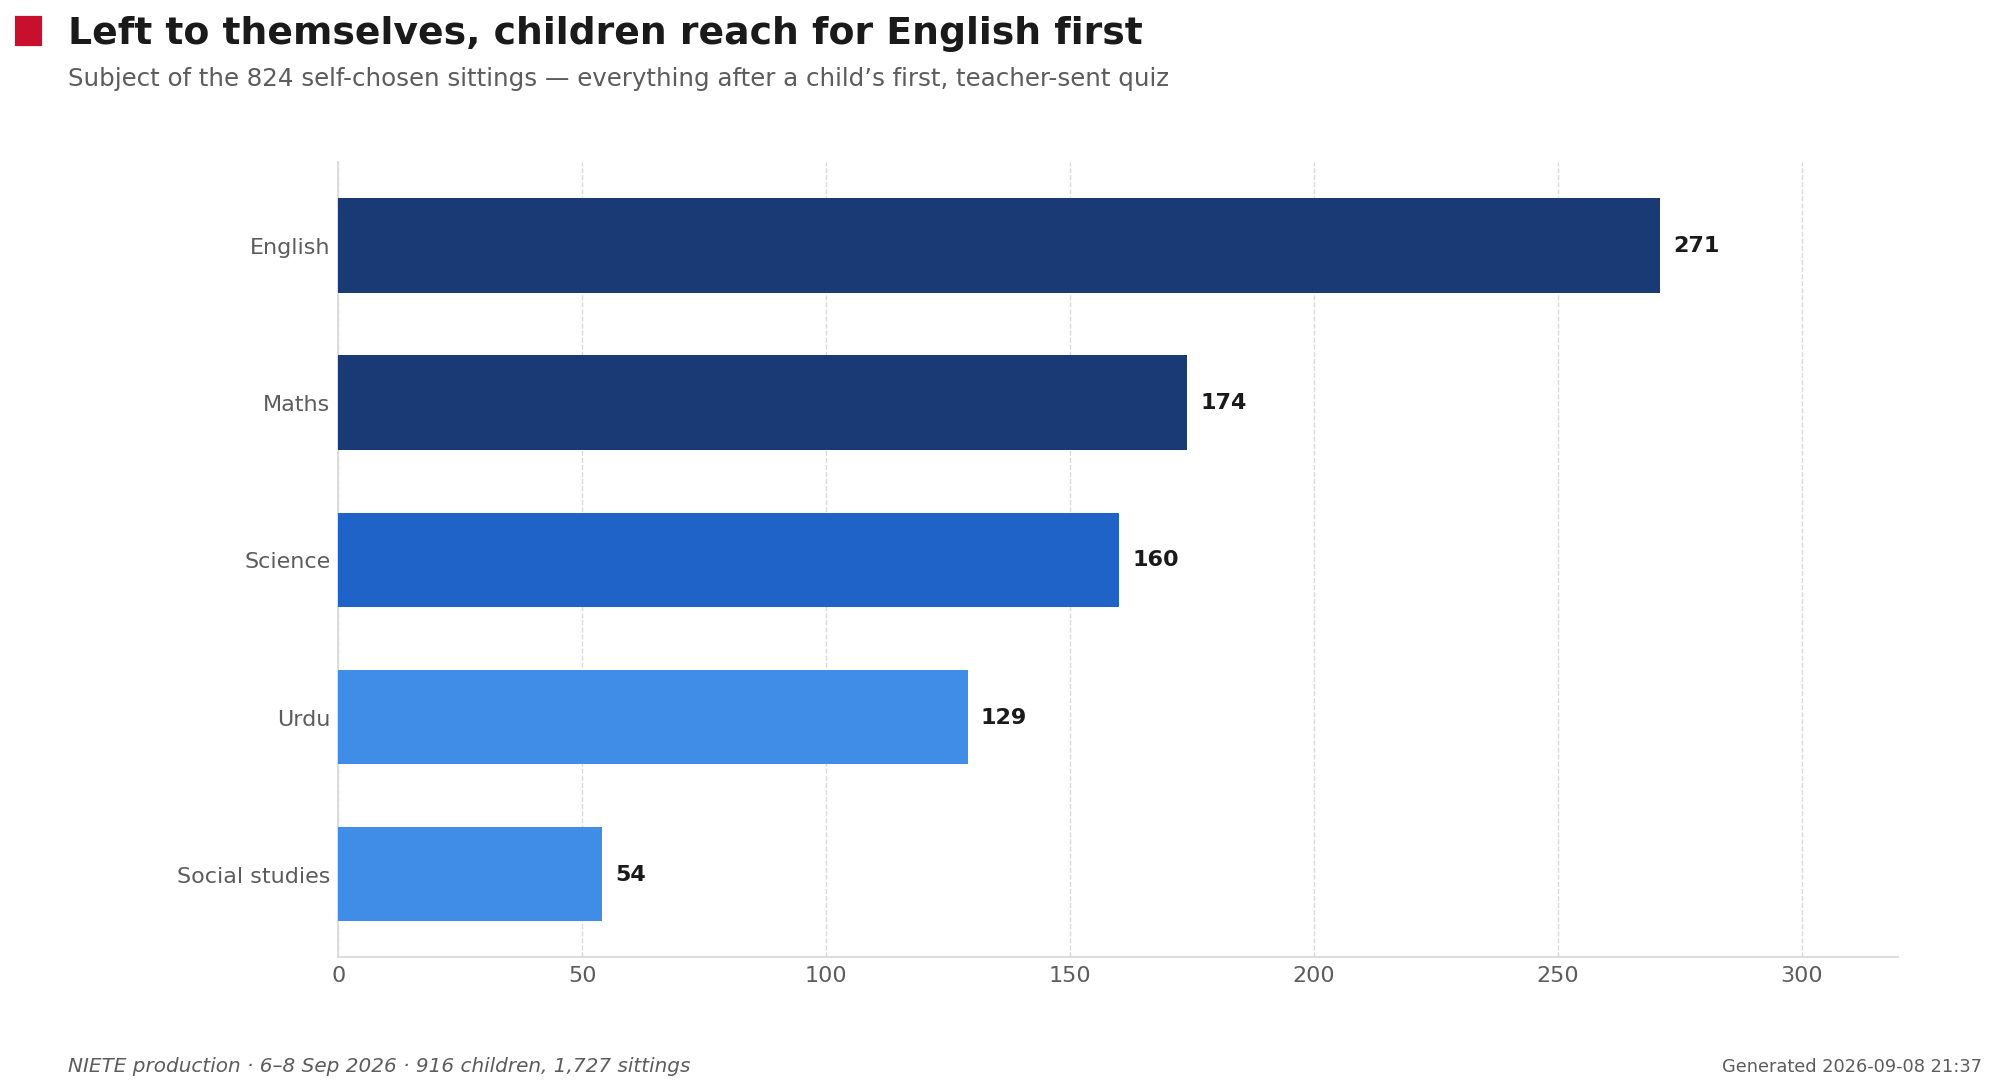
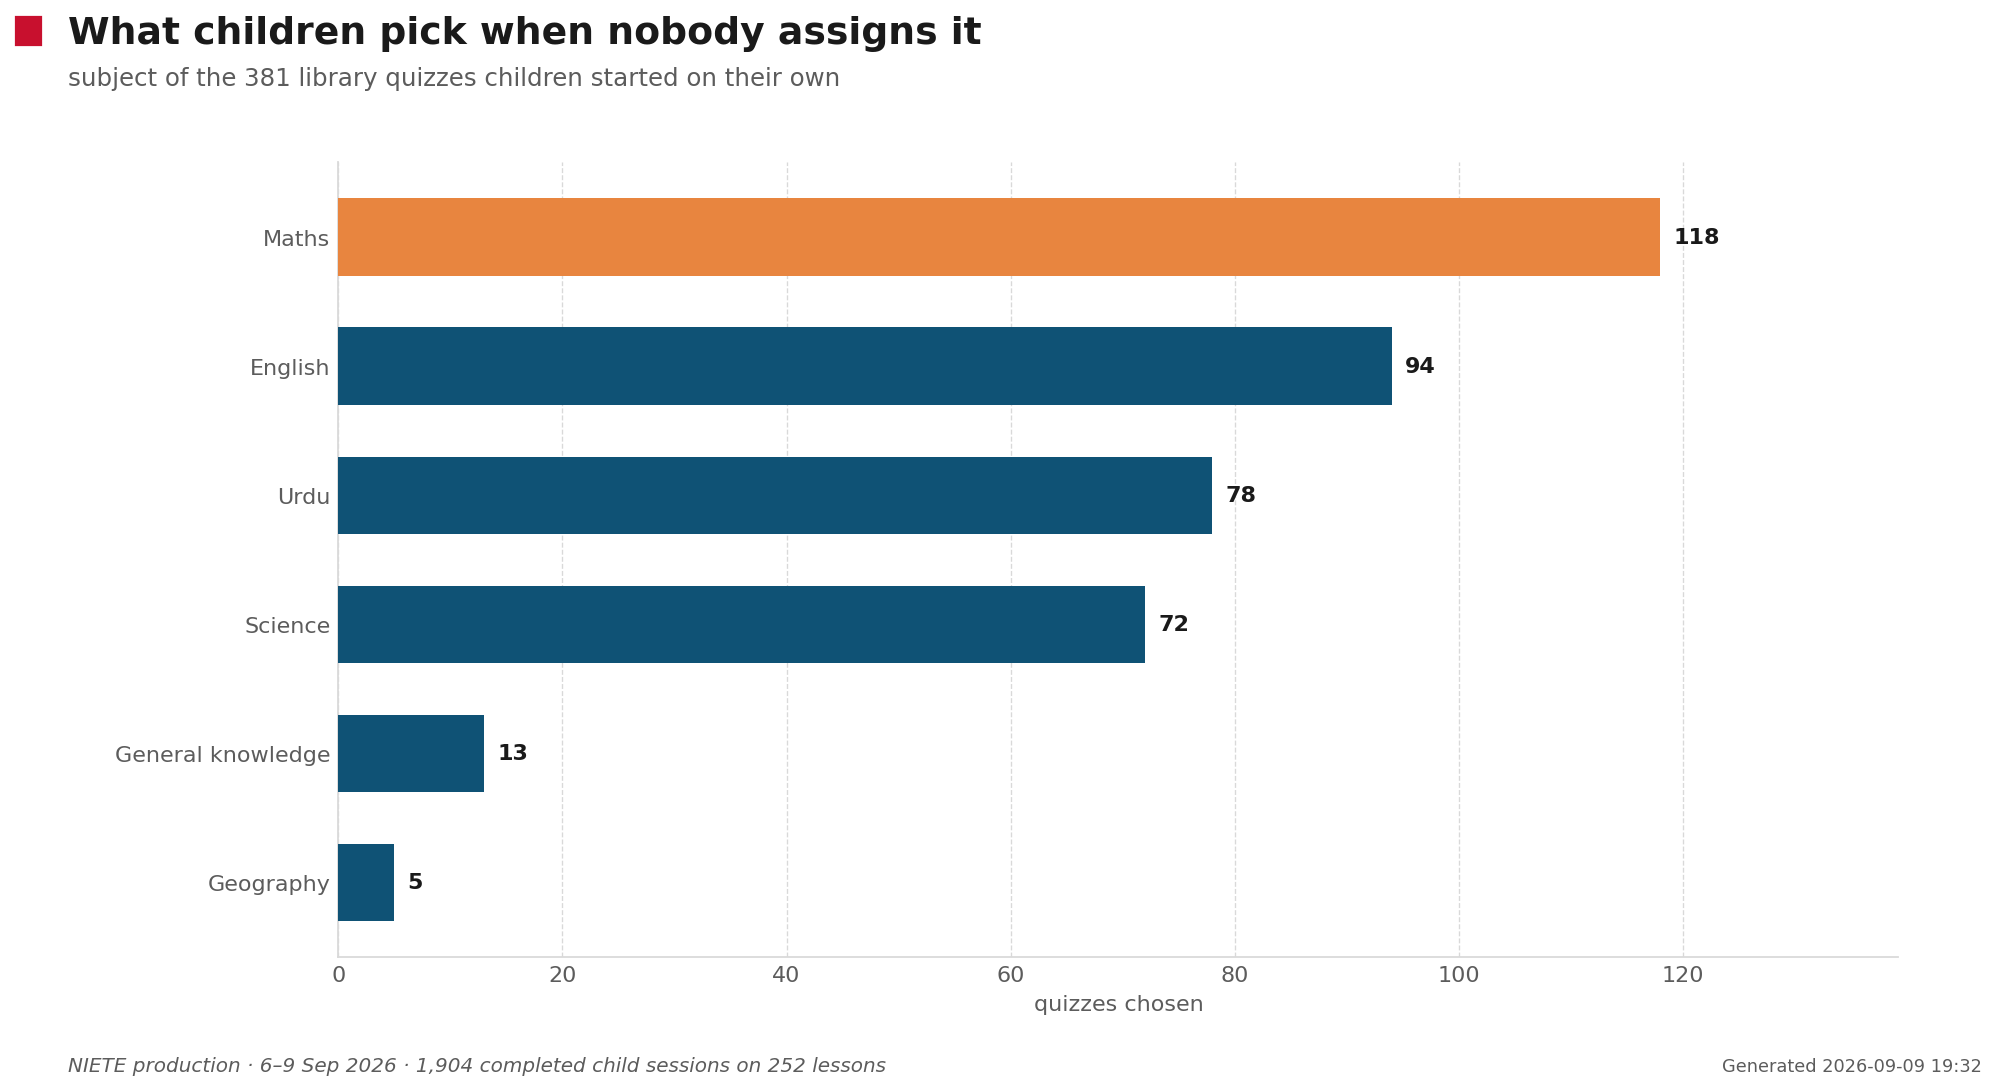
report: refresh the quiz story with four days of data (6-9 Sep)
Mastery settles at 75.9% across 8,746 child-objective pairs from 1,904
finished quizzes; depth, self-chosen subjects and the friend loop all
re-pulled. The three charts on this page are now generated from the pull
rather than hand-copied, which is how the depth chart came to be a build
behind the page around it.

diff --git a/reports/slo-mastery-2026-09-07/index.html b/reports/slo-mastery-2026-09-07/index.html
@@ -115,40 +115,41 @@ footer{border-top:1px solid var(--rule);padding-top:20px;color:var(--ink-3);font
 
 <div class="wrap">
 <header class="top">
-  <p class="eyebrow">NIETE · Islamabad · the first two days</p>
+  <p class="eyebrow">NIETE · Islamabad · the first four days</p>
   <h1>Did the children get it?</h1>
   <p class="stand">Every quiz here was written from a real lesson recording. The teacher taught, the system
     read the transcript back, listed the objectives the lesson actually covered, and asked the children
     about those — not about a syllabus. Then the children did something nobody had asked them to.</p>
-  <p class="pop"><span><b>311</b> quizzes sent to teachers</span><span><b>131</b> reached a child</span>
-    <span><b>583</b> finished all eight questions</span><span><b>916</b> children in all</span><span>6–8 September 2026</span></p>
+  <p class="pop"><span><b>536</b> quizzes sent to teachers</span><span><b>278</b> reached a child</span>
+    <span><b>1,904</b> finished all eight questions</span><span><b>1,461</b> children in all</span><span>6–9 September 2026</span></p>
 </header>
 
 <section>
-  <div class="answer"><p class="big">77.9%</p>
+  <div class="answer"><p class="big">75.9%</p>
     <p class="def">of the objectives they were asked about, children mastered — every question on that objective right.
-      2,719 child-and-objective pairs, from 583 finished quizzes.</p></div>
-  <p class="prose">That number was 78.7% after the first hundred children and 78.6% after four hundred. It has not moved.
-    Question by question the figure is higher — 85.3% of answers were right, the median child scored
-    88% — but the stricter reading is the useful one: a child who misses one of the two questions on
-    <em>fractions as parts of a whole</em> has not mastered it, however good the score looks.</p>
+      8,746 child-and-objective pairs, from 1,904 finished quizzes.</p></div>
+  <p class="prose">It was 78.7% after the first hundred children and 77.9% after nine hundred. Four days and
+    1,904 finished quizzes in, it has settled two points lower — the direction you expect as a sample stops being
+    the keenest families and starts being everyone. Question by question the figure is higher — 84.0% of
+    answers were right, the median child scored 88.0% — but the stricter reading is the useful one: a child who
+    misses one of the two questions on <em>fractions as parts of a whole</em> has not mastered it, however good the score looks.</p>
 </section>
 
 <section>
   <p class="turn">The quiz the teacher sent turned out to be the beginning, not the end.</p>
   <p class="prose">When a child finishes, the assistant asks whether they want another. Nobody expected much of that offer.
-    <b>Of the 369 children who saw it and answered, 129 said yes</b> — 45%.
+    <b>Of the 552 children who saw it and answered, 258 said yes</b> — 47%.
     And the offer is the smaller half of it: children also came back on their own, through links their teacher had sent days
     before, or that a friend had forwarded.</p>
   <div class="stats">
-    <div class="stat"><b>278</b><span>quizzes children chose for themselves, beyond the one their teacher sent</span></div>
-    <div class="stat"><b>192</b><span>of those finished to the last question — 69%, the same rate as the quizzes teachers sent</span></div>
-    <div class="stat"><b>62</b><span>children did three or more different quizzes in two days</span></div>
-    <div class="stat"><b>5</b><span>the deepest run — five different quizzes across four subjects</span></div>
+    <div class="stat"><b>381</b><span>quizzes children chose for themselves, beyond the one their teacher sent</span></div>
+    <div class="stat"><b>220</b><span>of those finished to the last question — 58%, against 69% on the quizzes teachers sent; a library quiz is roughly twice as long</span></div>
+    <div class="stat"><b>151</b><span>children did three or more different quizzes in four days</span></div>
+    <div class="stat"><b>9</b><span>the deepest run — nine different quizzes across five subjects</span></div>
   </div>
   <figure class="chart"><img src="charts/10_depth_distinct.png" alt="Distinct quizzes per child" loading="lazy"></figure>
-  <p class="prose">This counts <em>different</em> quizzes. Children also restarted quizzes they had already begun — 560 times
-    across two days — which is a separate story, part enthusiasm and part a rate-limit stall that has since been fixed. It is left
+  <p class="prose">This counts <em>different</em> quizzes. Children also restarted quizzes they had already begun — 1,094 times
+    across four days — which is a separate story, part enthusiasm and part a rate-limit stall that has since been fixed. It is left
     out of every number above so that "went deeper" never means "tapped the same link twice".</p>
 </section>
 
@@ -250,24 +251,24 @@ footer{border-top:1px solid var(--rule);padding-top:20px;color:var(--ink-3);font
 
 <section>
   <h2>Left to themselves, what do they pick?</h2>
-  <p class="prose">Of the 278 quizzes children chose on their own, English led, then maths and science.
-    They do not stay in their lesson, and they do not stay in their year: 78 sittings were on grade 6–8 material, 45 on
-    grades 1–2. They reach up and down.</p>
+  <p class="prose">Of the 381 quizzes children chose on their own, maths now leads, then English and Urdu —
+    English led on day two and maths has overtaken it since. They do not stay in their lesson, and they do not stay in their year:
+    24 sittings were on grade 6–8 material, 37 on grades 1–2. They reach up and down.</p>
   <figure class="chart"><img src="charts/11_self_chosen_subjects.png" alt="Subjects children chose on their own" loading="lazy"></figure>
 </section>
 
 <section>
   <h2>Send it to a friend</h2>
   <p class="prose">After the scorecard, one question: <em>Want to send this quiz to a friend? I'll tell you how they did once they
-    finish.</em> Over two days, 1,064 children saw it. <b>278 forwarded it</b>, one in four. 154 friends
-    actually opened the link, and 101 of them — two in three — finished the whole quiz. 98 times, the result went
-    back to the child who sent it.</p>
+    finish.</em> Over four days, 2,036 children saw it. <b>491 forwarded it</b>, 24%.
+    200 friends actually opened the link, and 132 of them — two in three — finished the whole quiz.
+    174 times, the result went back to the child who sent it.</p>
   <figure class="chart"><img src="charts/12_friend_loop.png" alt="The invite loop" loading="lazy"></figure>
   <p class="prose">This is the message that goes back. It is the production string with real numbers from one pair of children;
     the names are changed.</p>
   <div class="duo">
-    <div><div class="bubble-solo"><div class="msg in"><p>🎯 <b>Hamza finished your quiz!</b><br><br>Hamza: <b>7/8</b><br>You: <b>5/8</b><br><br>Hamza edged you this time — worth another go.</p><span class="ts">8:14 pm</span></div></div><p class="cap"><span class="ur">متضاد الفاظ</span> — the friend edged the inviter.</p></div>
-    <div><div class="bubble-solo"><div class="msg in"><p>🎯 <b>Areeba finished your quiz!</b><br><br>Areeba: <b>13/15</b><br>You: <b>13/15</b><br><br>A dead heat — you both got the same.</p><span class="ts">8:14 pm</span></div></div><p class="cap">Common and Proper Nouns — a dead heat. Eight of the twelve pairs we sampled tied.</p></div>
+    <div><div class="bubble-solo"><div class="msg in"><p>🎯 <b>Hamza finished your quiz!</b><br><br>Hamza: <b>14/15</b><br>You: <b>13/15</b><br><br>Hamza edged you this time — worth another go.</p><span class="ts">8:14 pm</span></div></div><p class="cap">Adding and Subtracting Fractions — the friend edged the inviter.</p></div>
+    <div><div class="bubble-solo"><div class="msg in"><p>🎯 <b>Areeba finished your quiz!</b><br><br>Areeba: <b>8/8</b><br>You: <b>8/8</b><br><br>A dead heat — you both got the same.</p><span class="ts">8:14 pm</span></div></div><p class="cap">Types of Nouns — a dead heat. 64 of the 97 pairs where both children finished the same quiz tied.</p></div>
   </div>
   <div class="callout"><p><b>One thing to fix.</b> That message is English regardless of the quiz's language — an Urdu-speaking
     child who sends an Urdu quiz to a friend hears back in English. It bypasses the string catalogue. Small, and worth doing.</p></div>
@@ -277,7 +278,7 @@ footer{border-top:1px solid var(--rule);padding-top:20px;color:var(--ink-3);font
   <h2>The teacher's side of it</h2>
   <p class="prose">Before the link goes to the class, the teacher gets a three-page PDF: what the lesson covered, every question, and
     why each one was asked. This is page one of the one sent for the City and Farm lesson. And the first time a teacher is offered a
-    quiz, a short film explains what it is — here in Urdu, the version 356 teachers received today.</p>
+    quiz, a short film explains what it is — here in Urdu, the version that rides the first offer a teacher ever gets.</p>
   <div class="duo">
     <div><img class="realimg" src="assets/pdf/d4711e73_p1-1.png" alt="Page one of the teacher's quiz PDF"><p class="cap">The teacher's PDF, page one — real; only the teacher's name and the class join link are masked.</p></div>
     <div><video controls preload="none" poster="assets/film_poster.jpg" src="assets/quiz_intro_v3_ur.mp4"></video><p class="cap">The intro film, Urdu cut, 1:43. It rides the first offer each teacher gets.</p></div>
@@ -287,28 +288,31 @@ footer{border-top:1px solid var(--rule);padding-top:20px;color:var(--ink-3);font
 <section>
   <h2>Where the questions get hard</h2>
   <p class="prose">Every question is written at a level — remembering, understanding, or applying. Apply questions cost every year
-    something, and only a little: the gap is three points, not the six it looked like on day one.</p>
-  <div class="tablewrap"><table><thead><tr><th>Level the question was asked at</th><th class="num">Pairs</th><th class="num">Mastered</th><th class="num">Questions correct</th></tr></thead><tbody><tr><th>Recall</th><td class="num">1099</td><td class="num mixed">76.3%</td><td class="num">84.6%</td></tr><tr><th>Understand</th><td class="num">1605</td><td class="num mixed">77.3%</td><td class="num">85.9%</td></tr><tr><th>Apply</th><td class="num">909</td><td class="num mixed">74.0%</td><td class="num">84.0%</td></tr></tbody></table></div>
-  <p class="prose">By grade — the grade each child typed when joining — the spread across all five years is now 3.5 points. On day one
-    grade 3 looked eight points behind grade 4; that was small-sample noise and the page said so when it washed out. Urdu quizzes came
-    back 7 points above English ones, and that gap has held.</p>
-  <div class="tablewrap"><table><thead><tr><th>Grade</th><th class="num">Pairs</th><th class="num">Mastered</th><th class="num">Questions correct</th></tr></thead><tbody><tr><th>Grade 1</th><td class="num">92</td><td class="num mixed">76.1%</td><td class="num">86.4%</td></tr><tr><th>Grade 2</th><td class="num">284</td><td class="num mixed">74.6%</td><td class="num">84.0%</td></tr><tr><th>Grade 3</th><td class="num">370</td><td class="num mixed">75.9%</td><td class="num">84.6%</td></tr><tr><th>Grade 4</th><td class="num">508</td><td class="num mixed">78.1%</td><td class="num">85.5%</td></tr><tr><th>Grade 5</th><td class="num">1134</td><td class="num mixed">77.8%</td><td class="num">84.5%</td></tr></tbody></table></div>
+    something, and only a little: the gap between the easiest level and the hardest is
+    2 points,
+    not the six it looked like on day one.</p>
+  <div class="tablewrap"><table><thead><tr><th>Level the question was asked at</th><th class="num">Pairs</th><th class="num">Mastered</th><th class="num">Questions correct</th></tr></thead><tbody><tr><th>Recall</th><td class="num">3,591</td><td class="num mixed">75.3%</td><td class="num">83.9%</td></tr><tr><th>Understand</th><td class="num">4,835</td><td class="num mixed">74.3%</td><td class="num">84.2%</td></tr><tr><th>Apply</th><td class="num">2,853</td><td class="num mixed">73.4%</td><td class="num">83.0%</td></tr></tbody></table></div>
+  <p class="prose">By grade — the grade each child typed when joining — the spread across every year with real numbers behind it
+    is 5.1 points. On day one grade 3 looked eight points behind grade 4; that was small-sample noise and the page said so when
+    it washed out. Urdu quizzes came back 7 points above English ones, and
+    that gap has held every day since.</p>
+  <div class="tablewrap"><table><thead><tr><th>Grade</th><th class="num">Pairs</th><th class="num">Mastered</th><th class="num">Questions correct</th></tr></thead><tbody><tr><th>Grade 1</th><td class="num">177</td><td class="num mixed">75.1%</td><td class="num">85.6%</td></tr><tr><th>Grade 2</th><td class="num">601</td><td class="num mixed">77.5%</td><td class="num">85.0%</td></tr><tr><th>Grade 3</th><td class="num">917</td><td class="num mixed">74.8%</td><td class="num">84.1%</td></tr><tr><th>Grade 4</th><td class="num">1,858</td><td class="num mixed">74.9%</td><td class="num">83.4%</td></tr><tr><th>Grade 5</th><td class="num">3,952</td><td class="num mixed">75.7%</td><td class="num">83.8%</td></tr><tr><th>Grade 6</th><td class="num">279</td><td class="num mixed">72.4%</td><td class="num">79.9%</td></tr><tr><th>Grade 7</th><td class="num">159</td><td class="num mixed">74.8%</td><td class="num">81.9%</td></tr><tr><th>Grades 8, 9</th><td class="num">65</td><td class="num" colspan="2">too few children to read</td></tr></tbody></table></div>
 </section>
 
 <section>
   <div class="caveats"><h3>How much weight this carries</h3><ul>
-    <li><strong>Two days, 583 finished quizzes, 916 children.</strong> The headline has held between 77.9% and 78.8% as
-      the sample grew from a hundred children to nine hundred; the cuts beneath it are less settled, and one of them already washed out.</li>
-    <li><strong>The children are self-selected.</strong> They are the ones whose parents opened a WhatsApp link. 131 of
-      311 quizzes ever reached a child — the biggest loss in the whole chain, and it sits after everything that has been fixed.</li>
+    <li><strong>Four days, 1,904 finished quizzes, 1,461 children.</strong> The headline ran 78.8% → 77.9% → 75.9%
+      as the sample grew from a hundred children to fourteen hundred; the cuts beneath it are less settled, and one of them already washed out.</li>
+    <li><strong>The children are self-selected.</strong> They are the ones whose parents opened a WhatsApp link. 278 of
+      536 quizzes ever reached a child — the biggest loss in the whole chain, and it sits after everything that has been fixed.</li>
     <li><strong>Nobody was watching them answer.</strong> A quiz done at home can be done with help — which is also, sometimes, the point.</li>
-    <li><strong>Depth counts different quizzes only.</strong> The 560 restarts are excluded throughout.</li>
+    <li><strong>Depth counts different quizzes only.</strong> The 1,094 restarts are excluded throughout.</li>
     <li><strong>Zara is real; her name is not.</strong> No child's name, class or number appears on this page.</li>
   </ul></div>
 </section>
 
-<footer>Source: NIETE production, read replica and logs, 6–8 September 2026. Question cards, scorecards, PDF and film are the production
-  artefacts. Rebuilt by <code>pull.py</code> → <code>analyze.py</code> → <code>charts.py</code> → <code>build_story.py</code>.</footer>
+<footer>Source: NIETE production, read replica and logs, 6–9 September 2026. Question cards, scorecards, PDF and film are the production
+  artefacts. Rebuilt by <code>pull.py</code> → <code>analyze.py</code> → <code>binge.py</code> → <code>charts.py</code> → <code>build_story.py</code>.</footer>
 </div>
 <script>
 (function(){
